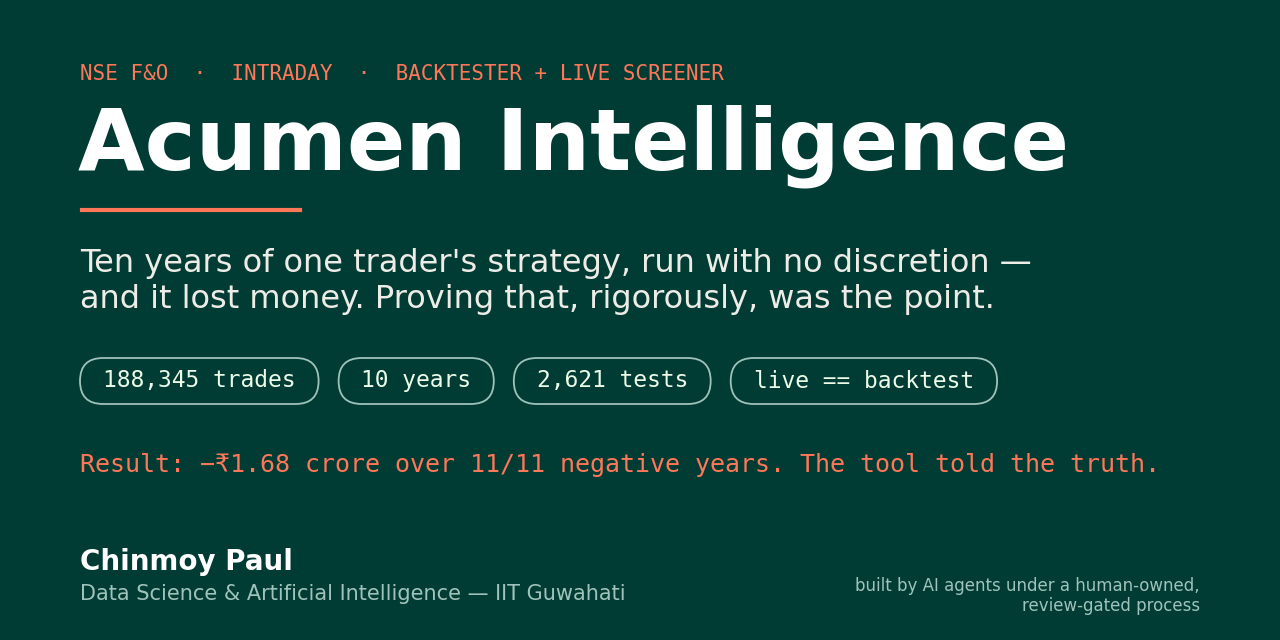
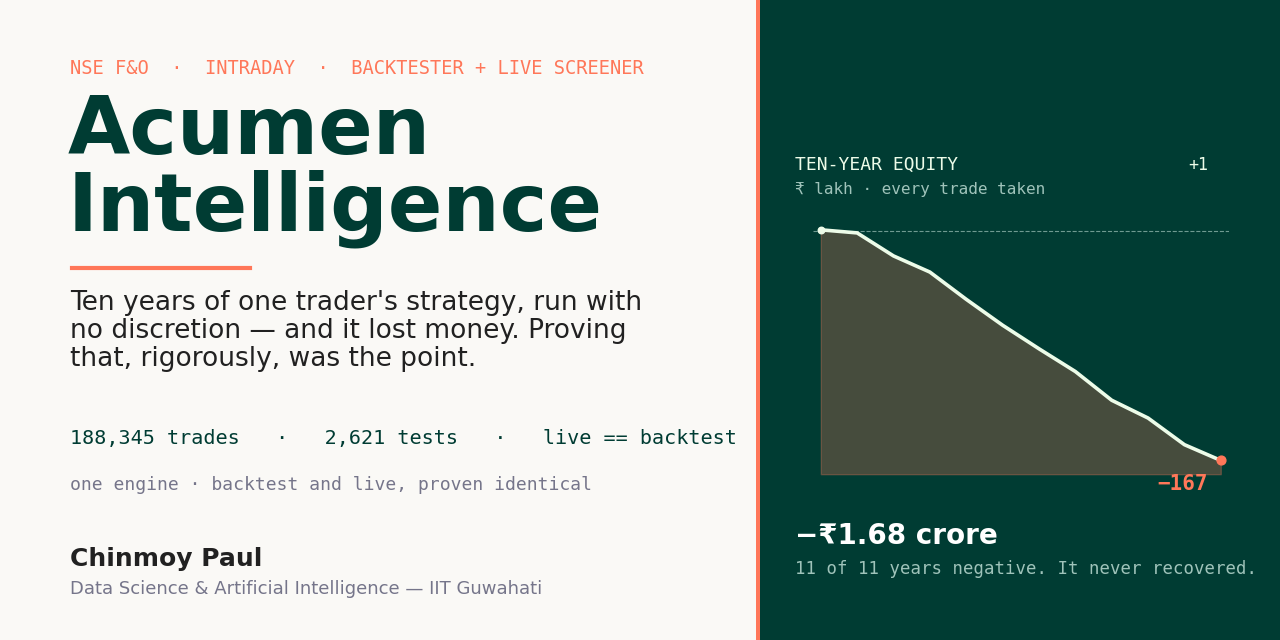
chunk15: swap in the recrafted social-preview card
docs/readme_assets/social_preview.png only. The 105,107-byte card added in
f83642f is replaced by the recrafted 99,527-byte version (sha256
60b021a1b40a1061c2cbae739af3aebc758cbe2044686068529c59c15b0c1d56), still
1280x640. The source was verified against that size and hash before the
copy, so a stale file could not have been picked up.

Docs asset only: no src/, no tests/, no fixture, no behaviour, so no review
is owed and no (unreviewed) suffix applies. Committing the file does not
change what GitHub shows -- the social preview is a Settings-page upload
that neither the CLI nor the API can set, and that upload is still the
operator's step.

diff --git a/PROGRESS.md b/PROGRESS.md
@@ -18,6 +18,18 @@ state-for-next-session: <exact current situation + the single next action>
 
 -->
 
+## [2026-08-18 18:49] chunk 15 · fix (ASSET SWAP: the recrafted social-preview card) · done
+scope: **ONE IMAGE REPLACED, AND NOTHING ELSE.** `docs/readme_assets/social_preview.png` is overwritten with the architect's recrafted card. No `src/`, no `tests/`, no fixture, no `CONTEXT.md`, no `plan.md`, no `CLAUDE.md`, no `STATUS.md`, no `QUESTIONS.md`, no `README.md`, no `LICENSE`, no `.env.example` byte changed; no engine behaviour touched; neither store read, written, named nor reachable from anything this session ran. **NO REVIEW IS OWED** and no `(unreviewed)` suffix applies -- zero `src/` and zero `tests/` paths are in the commit.
[1 lines of base64/hex data omitted]
+tests: **none run and none owed.** This commit changes no code, no test and no fixture, so the suite cannot move: the standing measurement remains REVIEW_R1's **2,621 passed / 0 failed / 0 skipped** at `abad6a6`. `tests/fixtures/` and `poc/data/` were not opened. What WAS measured is the image itself, since it is a public artefact: the source was checked **before** the copy against the size AND hash the architect specified (99,527 B / `60b021a1...`, both matching, and both differing from the file being replaced); the copied file re-hashed to the same digest on the repository side; the IHDR reads `00 00 05 00` / `00 00 02 80` = **1280 x 640**; and git staged it as binary (`Bin 105107 -> 99527 bytes`), so no eol translation touched it.
+decisions:
+  - **B451 RECORDED** -- the swap was gated on the source's identity, not on its path. The prompt named an expected size and hash for the NEW file with an instruction to stop if either failed; both were verified on the source *before* `cp` ran, so the wrong card could not have been copied even if the resolved directory had held a stale one. The path itself resolved exactly as B443 documented: the logical `<SCRATCH>\...\outputs\readme_assets\social_preview.png` the prompt named does not exist on this machine, and the file was read from its MSIX-virtualised location under `%LOCALAPPDATA%\Packages\<pkg>\LocalCache\...` -- the tool-naming fragments are written as `<SCRATCH>` here because the architect's ruling 1 of 18-Aug-2026 redacts them in every committed record, present and future. Recorded again rather than assumed settled, because the hash equality -- not the path -- is what proves the resolution was right.
+  - **B448 STILL OPEN, and now it matters more** -- GitHub's social preview is a Settings-page upload that neither the CLI nor the REST API can set, so **committing this file does not change what GitHub shows**. The repository currently has no preview uploaded at all; when the operator uploads one it must be THIS file (`60b021a1...`), not the superseded card. Restated here so the swap is not mistaken for the preview going live.
+questions: **none raised.** Nothing here met a hole `CONTEXT.md` does not answer, and the STOP rule was never approached. `QUESTIONS.md` was not read and not written: Q-11, Q-19 and Q-31 remain the only open items, all three unchanged and none touched.
+gate: n/a for this session. plan.md's chunk-15 ACCEPTANCE gate (five live sessions beside the trader's own trading; the trader accepts) is still open and is the operator's and the trader's to close, never a session's. **No store bracket is owed**: this session never read into, wrote to, or named `data_root`/`cache_root`, ran no CLI and executed nothing mutating -- the stores are byte-unmoved and need no new snapshot.
+status-ledger: **unchanged -- no chunk state moved, and `STATUS.md` was deliberately not touched.** Chunk 15's line stands exactly as the 08:52 session set it at `01b3733`: `chunk 15: reviewed-PASS (R1 fix reviewed-PASS, REVIEW_R1); tagged acumen-v1.0.1 -- **PROJECT COMPLETE -- every chunk sealed; the tool is done**`. This session swaps one docs asset; there is no chunk whose state it could honestly advance.
+state-for-next-session: **There is no next build, fix or review session -- the tool is COMPLETE and every chunk is sealed.** **No tag is cut or moved here** -- `acumen-v1.0.1` stays at `01b3733` and `acumen-v1.0` / `chunk15-final` stay at `bd1be58`; this is a docs-asset commit sitting on top of the release. **The single next action is still the OPERATOR's and is unchanged from the 18:37 entry except for which bytes it uses**: upload `docs/readme_assets/social_preview.png` -- now SHA-256 `60b021a1...` -- at Settings -> General -> Social preview (B448). Everything else outstanding is unchanged and none of it is blocking: the readiness run (`python scripts/run_screener.py --readiness --day <TODAY>`) and the dry-run week per `docs/morning_runbook.md` before the chunk-15 acceptance gate closes; and on the ARCHITECT's desk, **REVIEW_15B R6** (the committed `chunk14_parity_sample.json` no longer reproduces on the disclosed day ADANIPORTS 2026-02-06 -- the one carried real finding) and REVIEW_R1's **F4** and **F5** (each a one-line cosmetic he may take or decline).
+
 ## [2026-08-18 18:37] chunk 15 · fix (FINAL PORTFOLIO CLOSE-OUT: the B445 correction, LICENSE, .env.example, the social-preview image, and the GitHub About panel) · done
 scope: **DOCUMENTS, REPO HYGIENE AND REPOSITORY METADATA ONLY -- the last housekeeping session on this repository.** The B445 looseness the 12:13 entry disclosed is corrected in the README; a LICENSE, a credential template and a social-preview image are added; the GitHub About panel (description, homepage, 14 topics) is set through the `gh` CLI. No `src/`, no `tests/`, no fixture, no `CONTEXT.md`, no `plan.md`, no `CLAUDE.md`, no `STATUS.md` and no `QUESTIONS.md` byte changed; no engine behaviour touched; neither store read, written, named nor reachable from anything this session ran. **NO REVIEW IS OWED** on the same standing as the two entries below: nothing a reviewer certifies moved, and no `(unreviewed)` suffix applies because zero `src/` and zero `tests/` paths are in the commit.
[1 lines of base64/hex data omitted]
